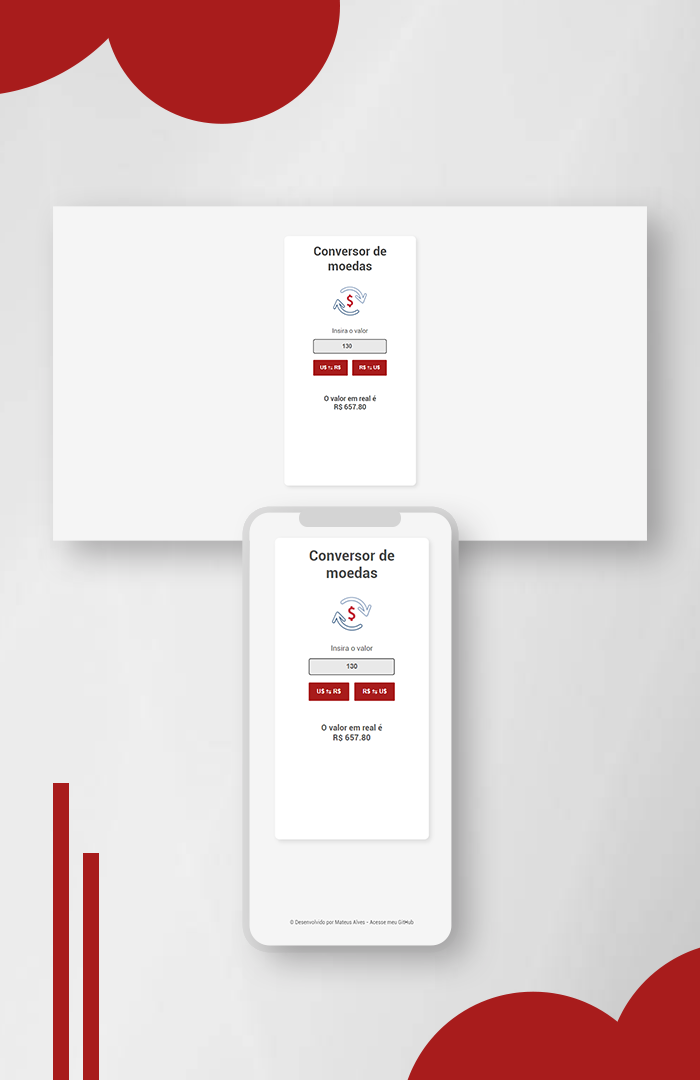
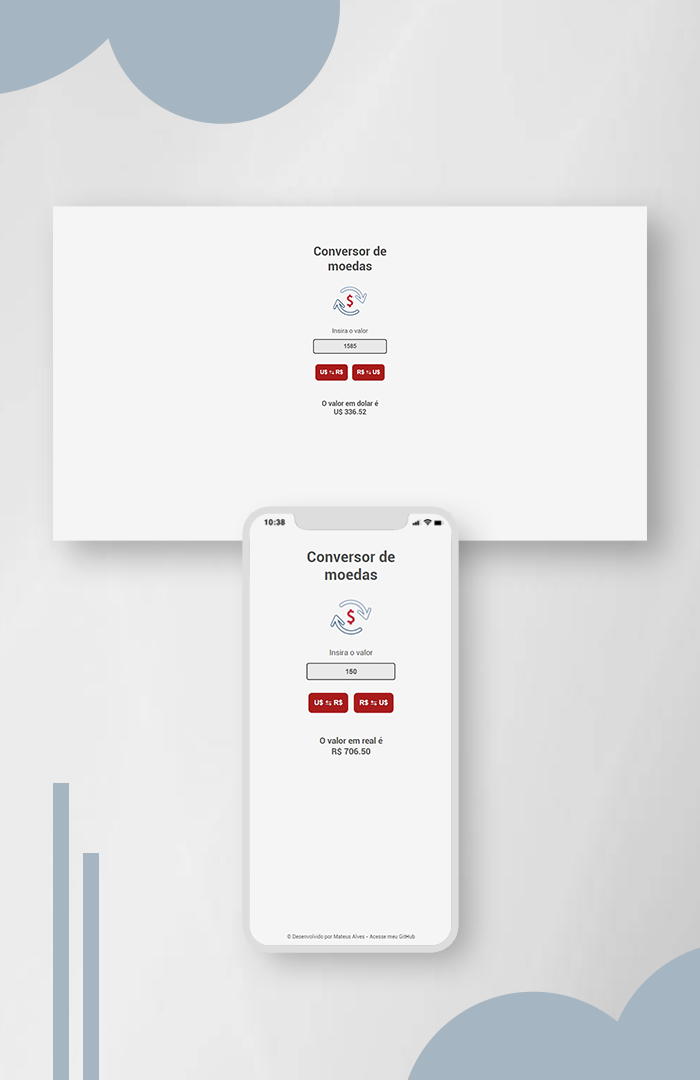
Update 1.4

diff --git a/style.scss b/style.scss
@@ -9,7 +9,7 @@ $corBotao: #a81c1c;
 
 @mixin container() {
     margin: auto;
-    background-color: $corCard;
+    // background-color: $corCard;
     text-align: center;
     padding: 20px;
     width: 300px;
@@ -17,19 +17,20 @@ $corBotao: #a81c1c;
     margin-top: 5vw;
     min-height: 420px;
     border-radius: 10px;
-    box-shadow: 5px 5px 10px rgba(0, 0, 0, 0.096);
+    // box-shadow: 5px 5px 10px rgba(0, 0, 0, 0.096);
 }
 
 @mixin botao() {
     margin-top: 12px;
     padding: 12px 12px;
-    border-radius: 2px;
+    border-radius: 8px;
     background-color: $corBotao;
     color: $corCard;
     font-weight: bold;
     font-size: 15px;
     border: none;
     margin: 4px;
+    margin-top: 15px;
 
   &:hover{
     background-color: #681212;
@@ -82,9 +83,20 @@ $corBotao: #a81c1c;
     font-size: 15px;
     font-weight: bold;
   }
+
+  input[type=number]::-webkit-inner-spin-button { 
+    -webkit-appearance: none;
+    
+}
+
+  input[type="number"] {
+    margin-top: 12px;
+    -moz-appearance: textfield;
+  }
   
   label {
     color: $corElementos;
+    margin-bottom: 20px;
   }
   
   button {

diff --git a/style.css b/style.css
@@ -14,7 +14,6 @@ body {
 
 .container {
   margin: auto;
-  background-color: #ffffff;
   text-align: center;
   padding: 20px;
   width: 300px;
@@ -22,8 +21,6 @@ body {
   margin-top: 5vw;
   min-height: 420px;
   border-radius: 10px;
-  -webkit-box-shadow: 5px 5px 10px rgba(0, 0, 0, 0.096);
-          box-shadow: 5px 5px 10px rgba(0, 0, 0, 0.096);
 }
 
 .page-title {
@@ -55,20 +52,31 @@ input {
   font-weight: bold;
 }
 
+input[type=number]::-webkit-inner-spin-button {
+  -webkit-appearance: none;
+}
+
+input[type="number"] {
+  margin-top: 12px;
+  -moz-appearance: textfield;
+}
+
 label {
   color: #4e4e4e;
+  margin-bottom: 20px;
 }
 
 button {
   margin-top: 12px;
   padding: 12px 12px;
-  border-radius: 2px;
+  border-radius: 8px;
   background-color: #a81c1c;
   color: #ffffff;
   font-weight: bold;
   font-size: 15px;
   border: none;
   margin: 4px;
+  margin-top: 15px;
 }
 
 button:hover {

diff --git a/script.js b/script.js
@@ -3,12 +3,14 @@ function Converter() {
     let valor = valorElemento.value;
     let valorMoeda = Number(valor);
 
-    let valorReal = valorMoeda * 5.06;
+    let valorReal = valorMoeda * 4.71;
 
     let elemento = document.getElementById("valorConvertido");
 
     let valorConvertido = "O valor em real é<br>R$ " + valorReal.toFixed(2);
     elemento.innerHTML = valorConvertido;
+
+    valorElemento.focus();
 }
 
 function Converter2() {
@@ -16,10 +18,12 @@ function Converter2() {
     let valor = valorElemento.value;
     let valorMoeda = Number(valor);
 
-    let valorDolar = valorMoeda / 5.06;
+    let valorDolar = valorMoeda / 4.71;
 
     let elemento = document.getElementById("valorConvertido");
 
     let valorConvertido = "O valor em dolar é<br>U$ " + valorDolar.toFixed(2);
     elemento.innerHTML = valorConvertido;
+
+    valorElemento.focus();
 }

diff --git a/index.html b/index.html
@@ -19,7 +19,7 @@
         <img src="img.png" class="page-logo" alt=""><br><br>
 
         <label for="moeda">Insira o valor</label><br>
-        <input type="number" id="valor" size="2" /><br>
+        <input type="number" autofocus inputmode="numeric" id="valor" size="2" /><br>
 
         <button type="submit" onclick="Converter()">U$ &#8646; R$</button>
         <button type="submit" onclick="Converter2()">R$ &#8646; U$</button>

diff --git a/README.md b/README.md
@@ -13,7 +13,7 @@
 </h3>
 
 <h4 align = "center">
-	Conversor de moedas - Versão 1.3 ✅
+	Conversor de moedas - Versão 1.4 ✅
 </h4>
 <br>
 <h3 align = "center">
